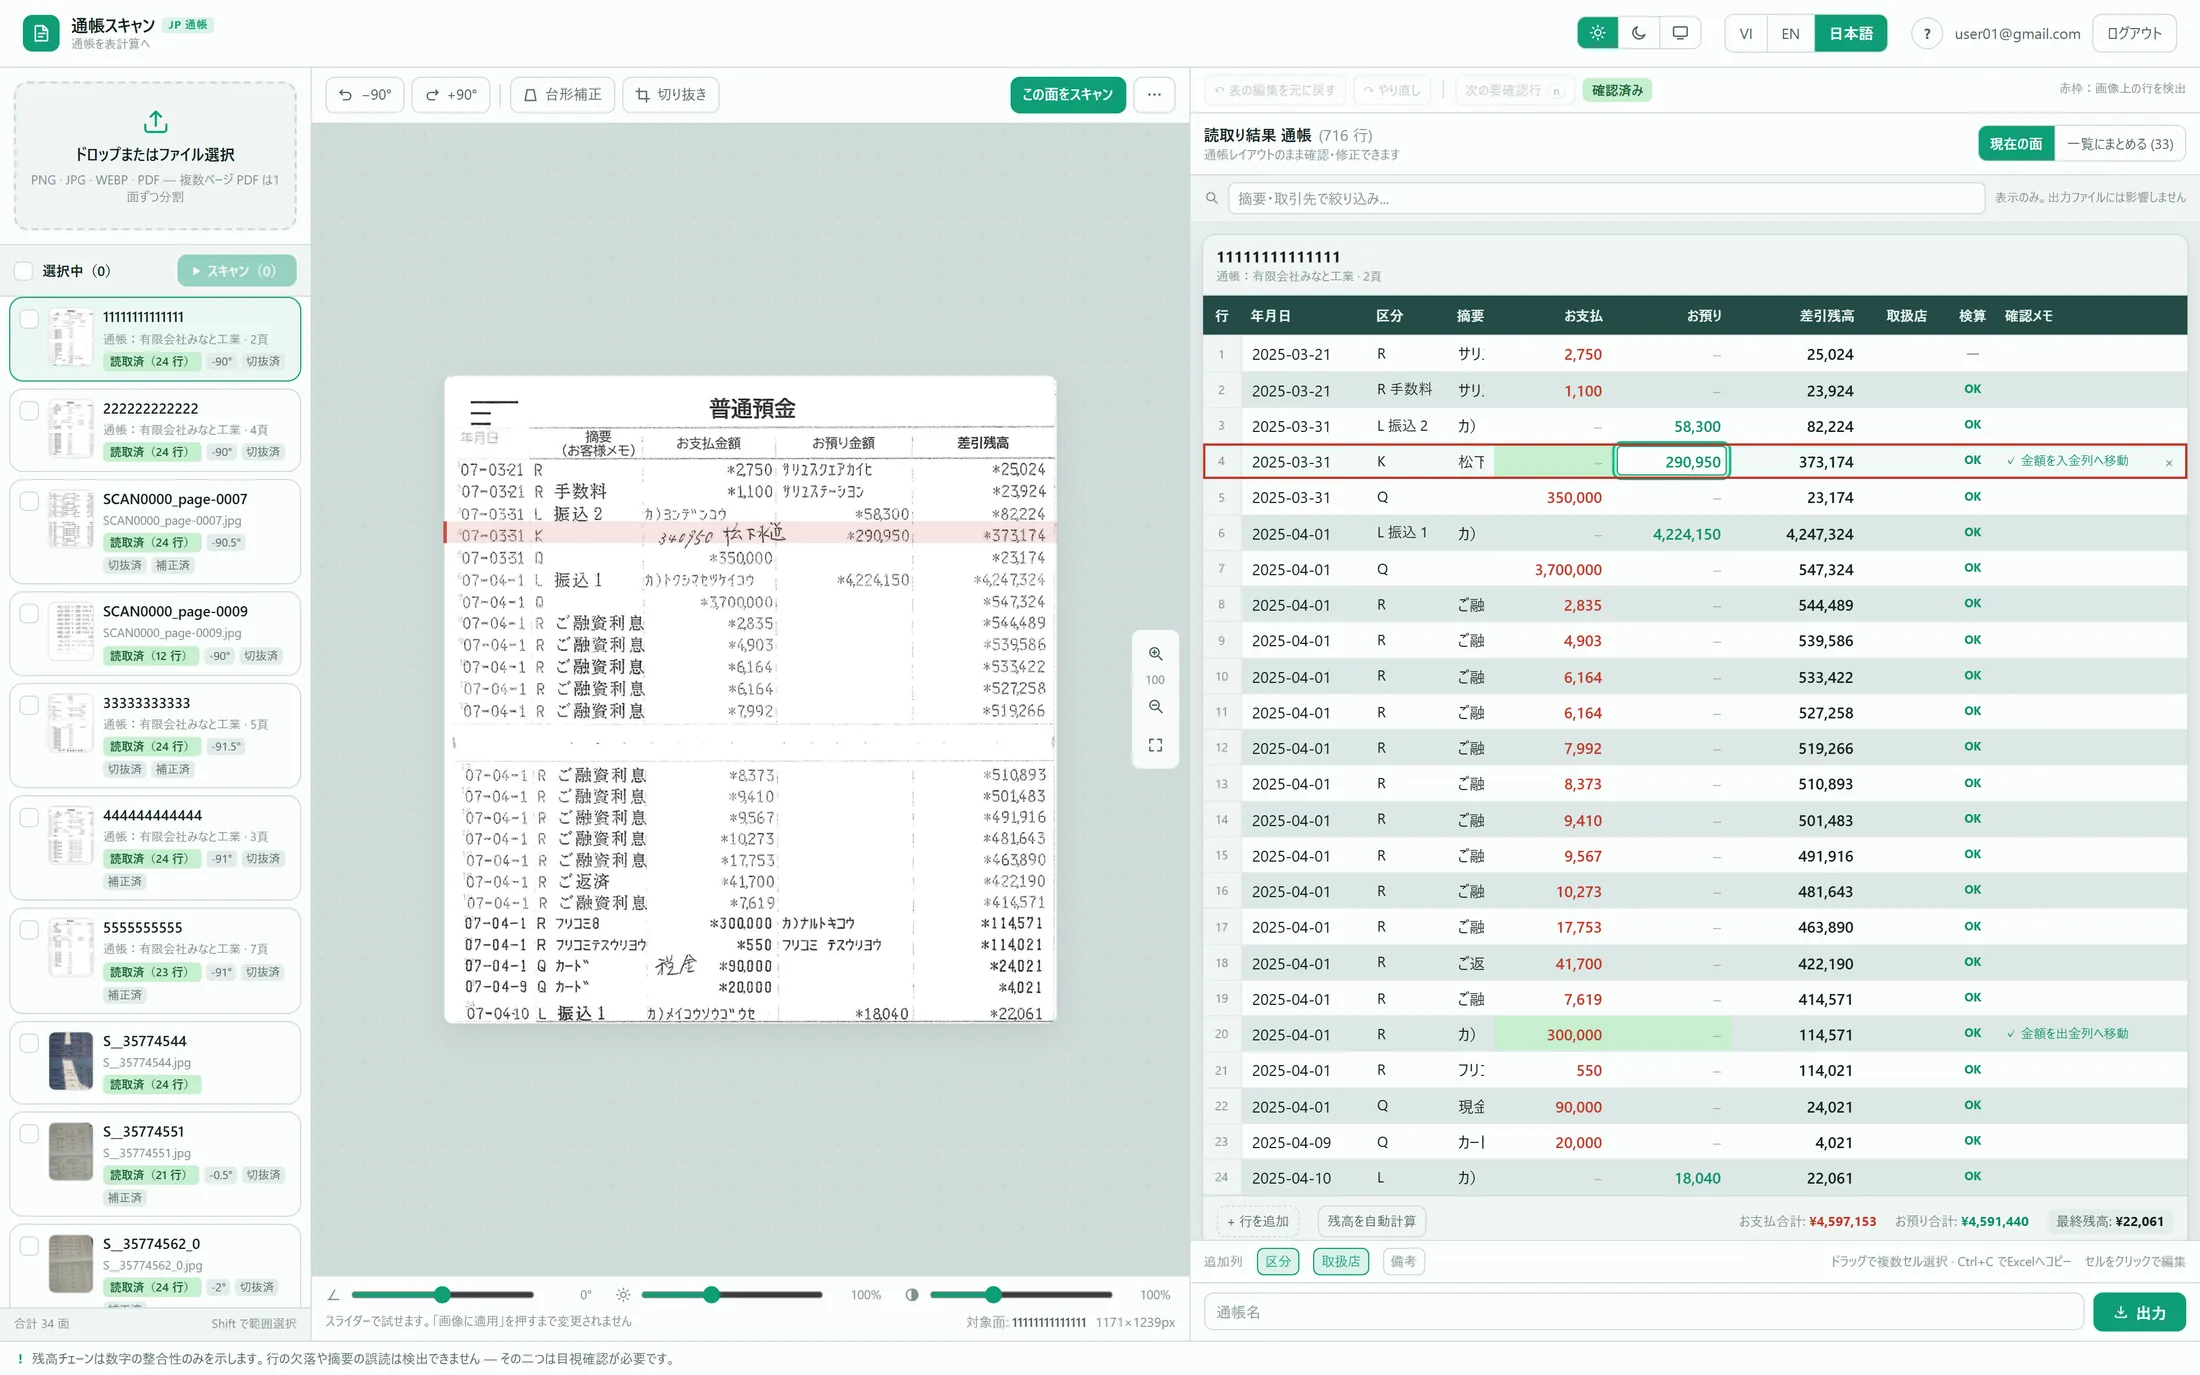
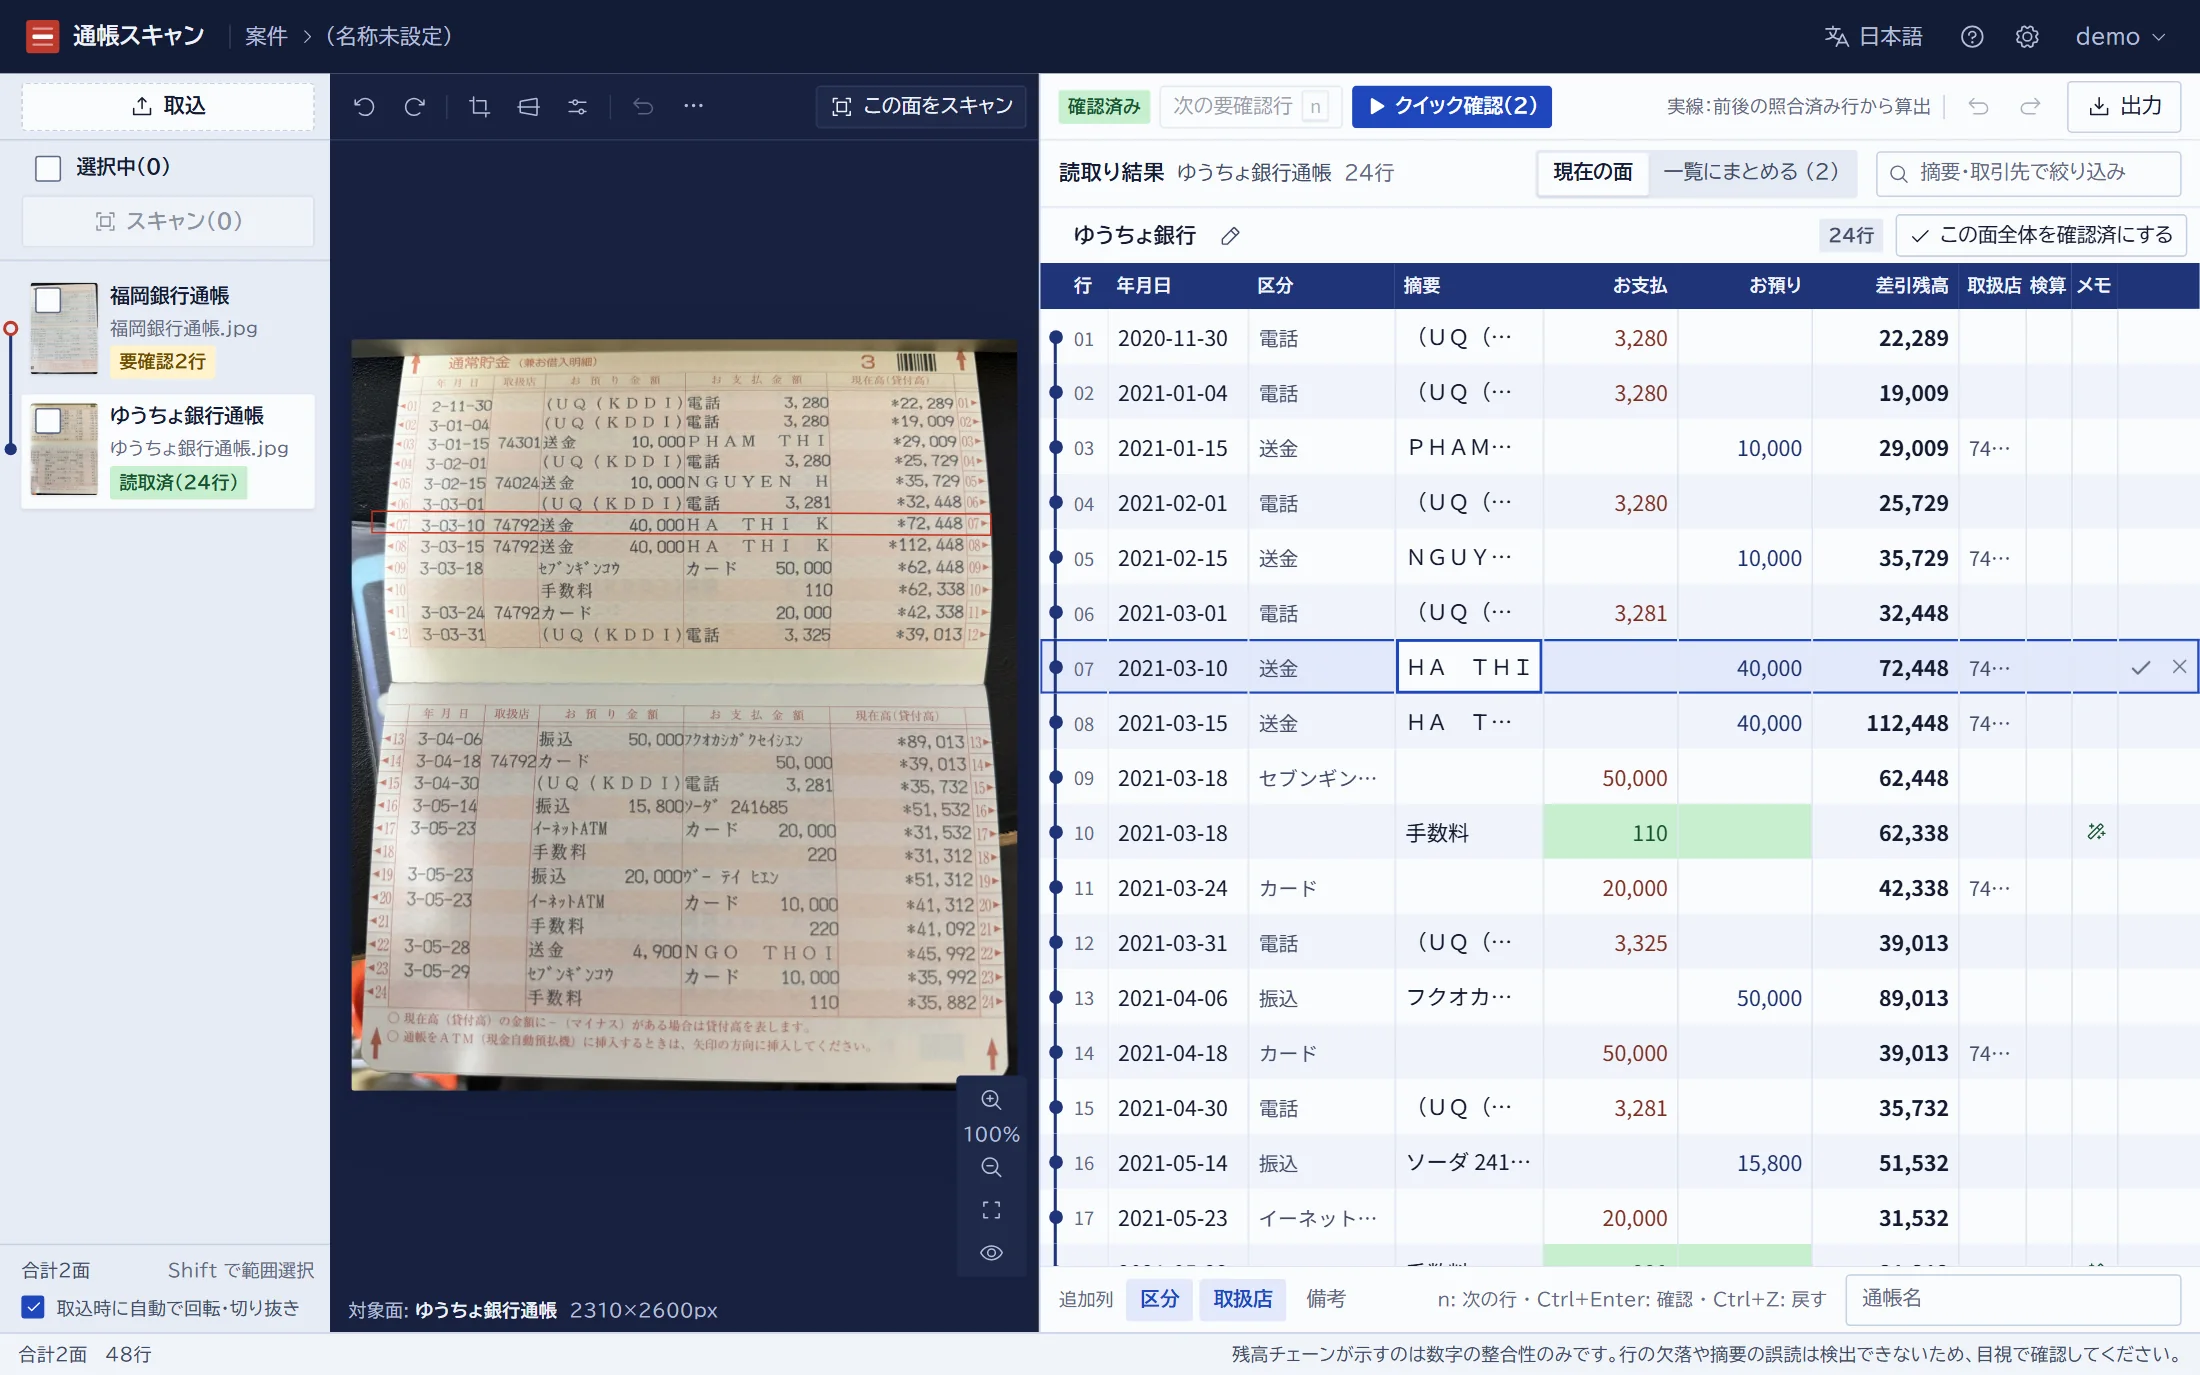
Trang gioi thieu: anh man hinh moi theo giao dien thiet ke lai, so mau cua chinh tac gia
- Anh hero app-light.webp chup lai tu app moi (khung do khop noi dung, cham xanh kiem toan),
  dung so mau cua chinh tac gia, khong con du lieu khach hang; che ten tai khoan thu.
- Cap nhat 5 nhan chu thich (vi tri moi) va chu thich anh bang 3 ngon ngu.

diff --git a/tsucho-scan-homepage/lib/v5-copy.ts b/tsucho-scan-homepage/lib/v5-copy.ts
@@ -69,13 +69,13 @@ const jp = {
     lead: '作った絵ではなく、動いている画面をそのまま写したものです。左に通帳の面、中央に写真、右に読み取り結果。行を選ぶと、写真の同じ行に赤い帯がつきます。',
     alt: '通帳スキャンの作業画面。左に読み取り済みの面の一覧、中央に通帳の写真、右に読み取り結果の表。',
     marks: [
-      { x: 8, y: 25, t: '面ごとの読み取り状況' },
-      { x: 33, y: 38.8, t: '写真の同じ行に赤い帯' },
-      { x: 55.3, y: 33.5, t: '表で選んだ行' },
-      { x: 89.6, y: 43.9, t: '検算が通った行は OK' },
-      { x: 93.5, y: 75.2, t: '列の取り違えは自動で直し、理由を残す' },
+      { x: 13.4, y: 35.1, t: '面ごとの読み取り状況' },
+      { x: 44.6, y: 38.1, t: '写真の同じ行に赤い帯' },
+      { x: 73.2, y: 48.5, t: '表で選んだ行' },
+      { x: 48, y: 28.6, t: '検算が通った行は青い点' },
+      { x: 95.3, y: 60.5, t: '列の取り違えは自動で直し、理由を残す' },
     ],
-    caption: 'ブラウザだけで動きます。インストールは要りません。画面は見本の通帳で、会社名は差し替えてあります。',
+    caption: 'ブラウザだけで動きます。インストールは要りません。画面は開発者本人の通帳を使った見本です。',
   },
   film: {
     title: ['約1分半の動画で、', '全体の流れを。'],
@@ -334,13 +334,13 @@ const vn: Copy = {
     lead: 'Đây không phải hình vẽ mà là ảnh chụp ứng dụng đang chạy. Bên trái là các mặt sổ, giữa là ảnh, bên phải là kết quả. Chọn một dòng, dòng đó trên ảnh có vệt đỏ.',
     alt: 'Màn hình làm việc của 通帳スキャン: trái là danh sách mặt sổ đã đọc, giữa là ảnh sổ, phải là bảng kết quả.',
     marks: [
-      { x: 8, y: 25, t: 'Tình trạng đọc của từng mặt sổ' },
-      { x: 33, y: 38.8, t: 'Vệt đỏ trên đúng dòng của ảnh' },
-      { x: 55.3, y: 33.5, t: 'Dòng đang chọn trong bảng' },
-      { x: 89.6, y: 43.9, t: 'Dòng đã kiểm khớp ghi OK' },
-      { x: 93.5, y: 75.2, t: 'Nhầm cột thì tự sửa và ghi lý do' },
+      { x: 13.4, y: 35.1, t: 'Tình trạng đọc của từng mặt sổ' },
+      { x: 44.6, y: 38.1, t: 'Vệt đỏ trên đúng dòng của ảnh' },
+      { x: 73.2, y: 48.5, t: 'Dòng đang chọn trong bảng' },
+      { x: 48, y: 28.6, t: 'Dòng đã kiểm khớp có chấm xanh' },
+      { x: 95.3, y: 60.5, t: 'Nhầm cột thì tự sửa và ghi lý do' },
     ],
-    caption: 'Chạy ngay trên trình duyệt, không cần cài đặt. Ảnh dùng sổ mẫu, tên công ty đã được thay.',
+    caption: 'Chạy ngay trên trình duyệt, không cần cài đặt. Ảnh dùng sổ mẫu của chính người phát triển.',
   },
   film: {
     title: ['Video khoảng 1 phút rưỡi,', 'xem toàn bộ quy trình.'],
@@ -597,13 +597,13 @@ const en: Copy = {
     lead: 'Not an illustration: a capture of the running app. Passbook pages on the left, the photo in the middle, extracted rows on the right. Pick a row and the same line on the photo gets a red band.',
     alt: 'The 通帳スキャン workspace: page list on the left, passbook photo in the middle, extracted table on the right.',
     marks: [
-      { x: 8, y: 25, t: 'Reading status of each page' },
-      { x: 33, y: 38.8, t: 'Red band on the same line of the photo' },
-      { x: 55.3, y: 33.5, t: 'The row you picked' },
-      { x: 89.6, y: 43.9, t: 'Rows that pass the check show OK' },
-      { x: 93.5, y: 75.2, t: 'Column mix-ups are fixed, with the reason kept' },
+      { x: 13.4, y: 35.1, t: 'Reading status of each page' },
+      { x: 44.6, y: 38.1, t: 'Red band on the same line of the photo' },
+      { x: 73.2, y: 48.5, t: 'The row you picked' },
+      { x: 48, y: 28.6, t: 'Rows that pass the check get a blue dot' },
+      { x: 95.3, y: 60.5, t: 'Column mix-ups are fixed, with the reason kept' },
     ],
-    caption: 'Runs in the browser, nothing to install. Shown with the sample passbook; the company name is replaced.',
+    caption: 'Runs in the browser, nothing to install. Shown with a sample passbook that belongs to the developer.',
   },
   film: {
     title: ['About ninety seconds,', 'the whole flow.'],
